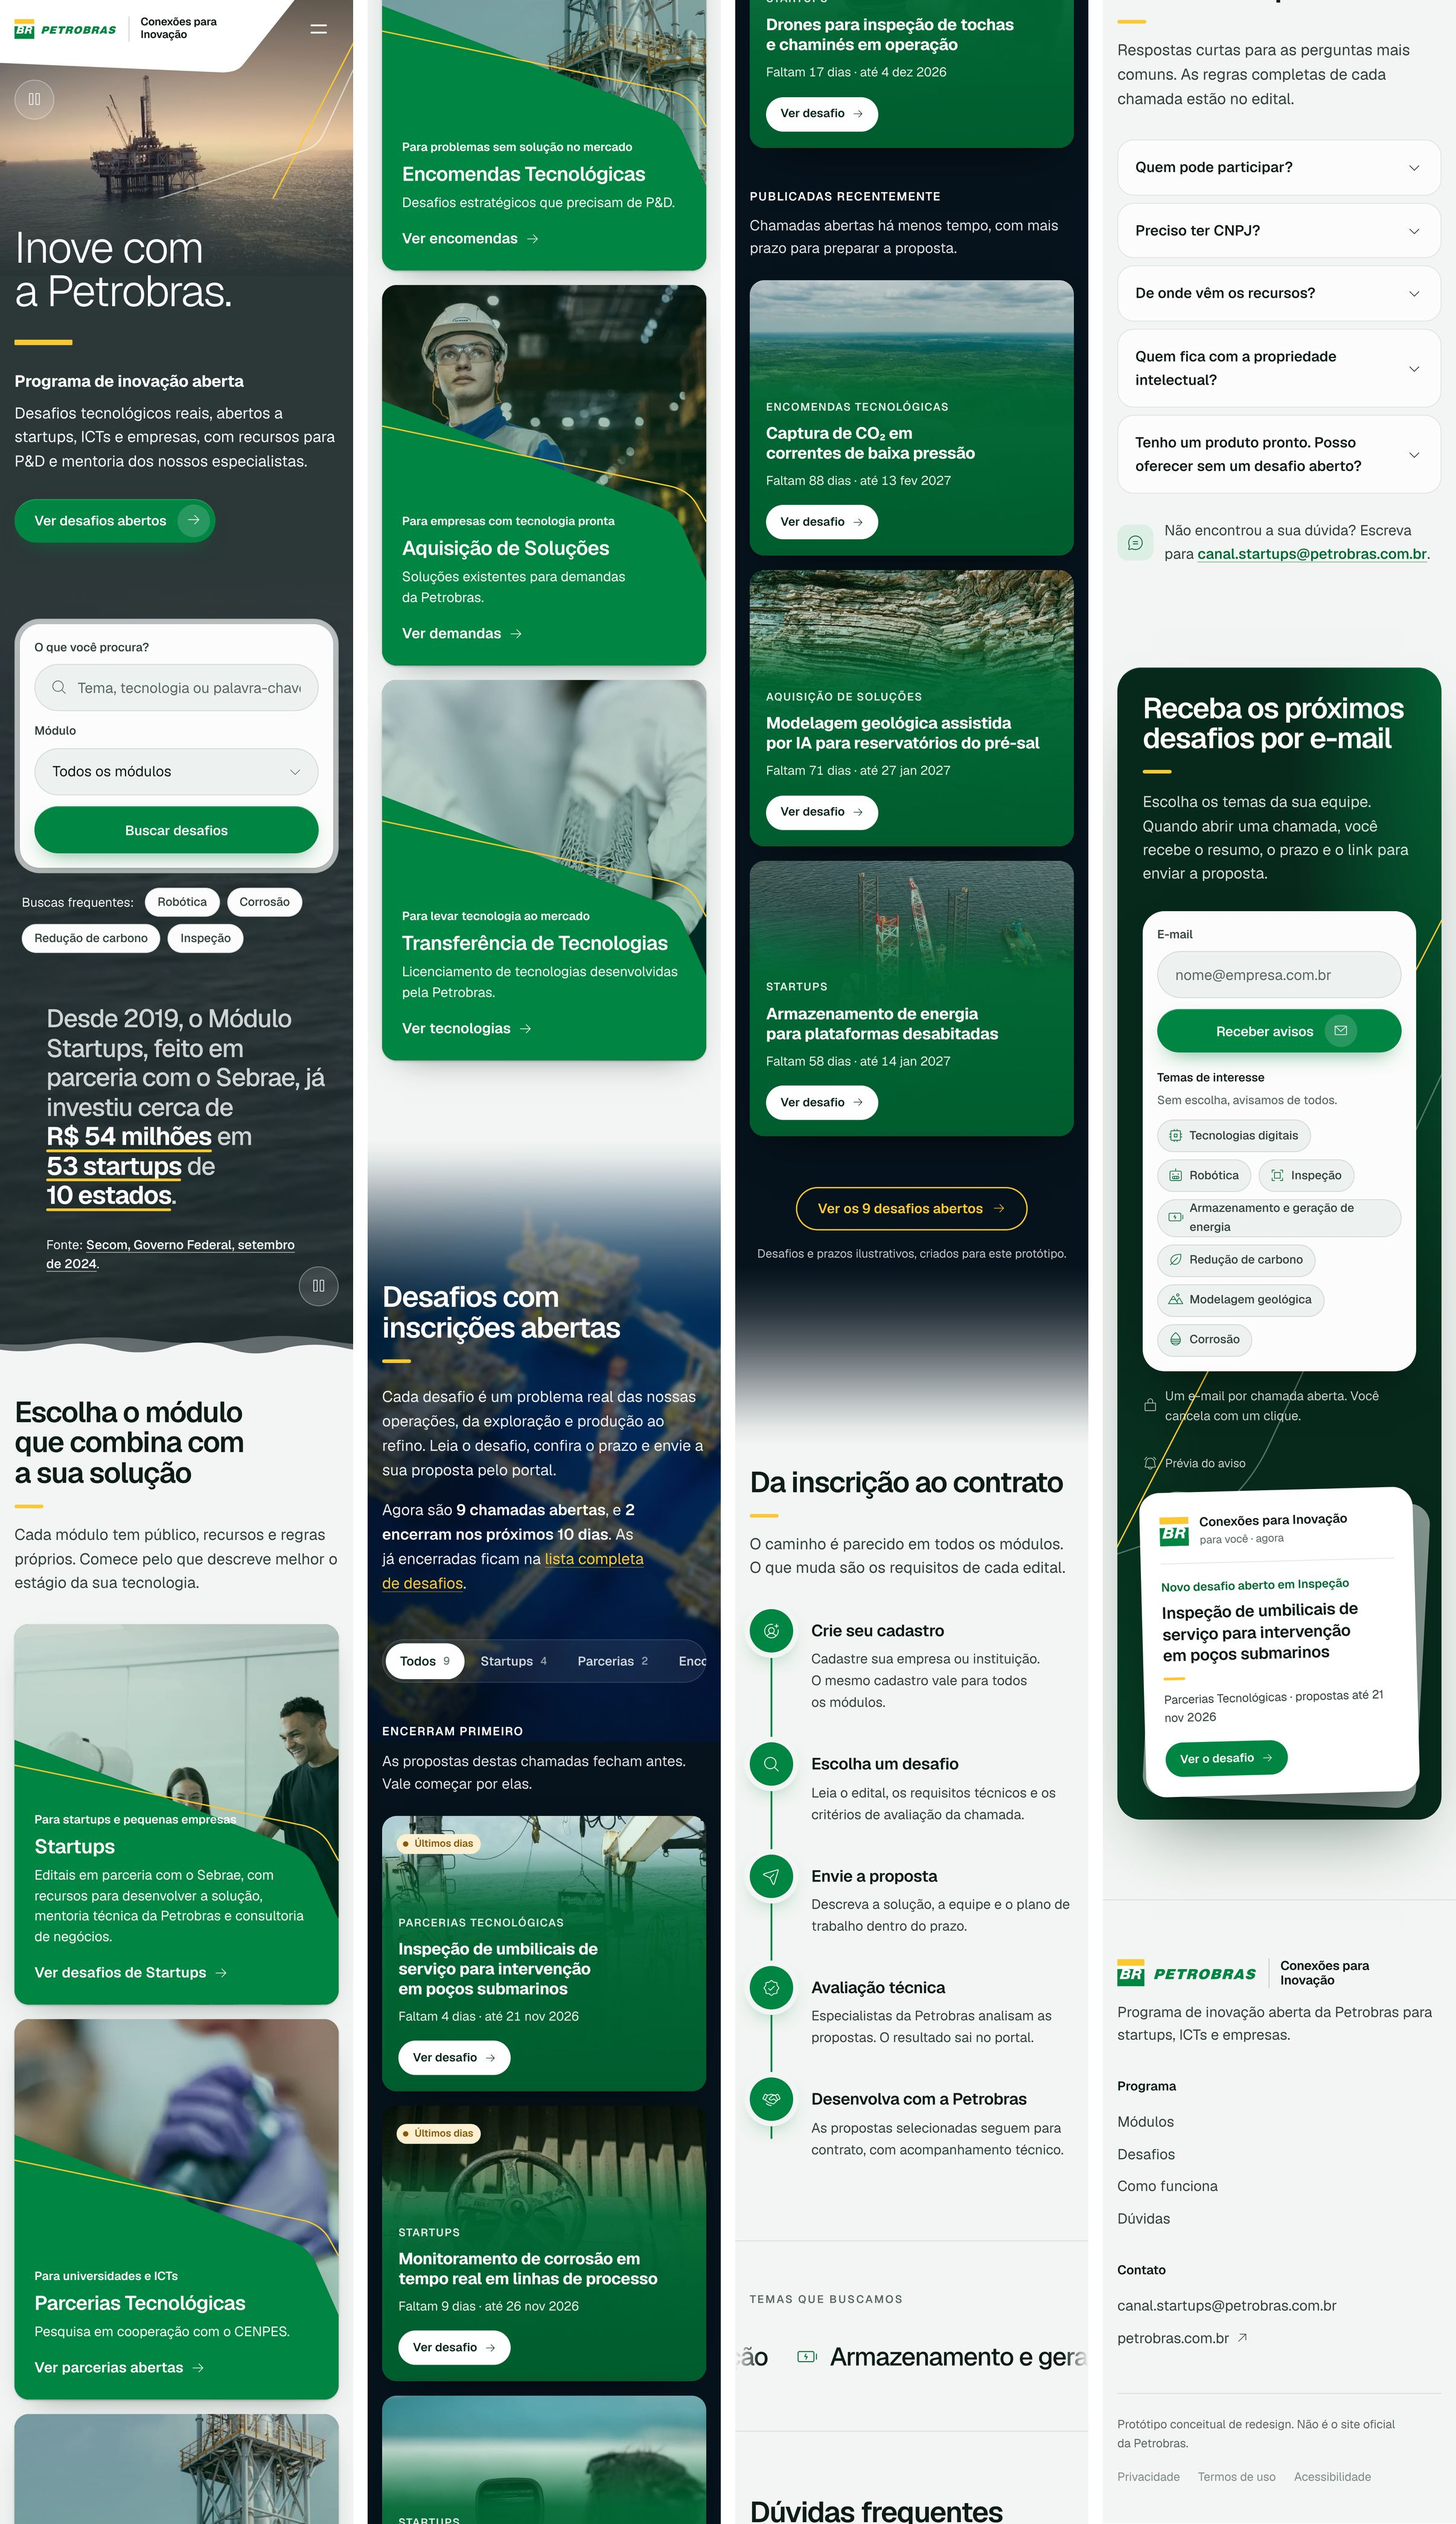
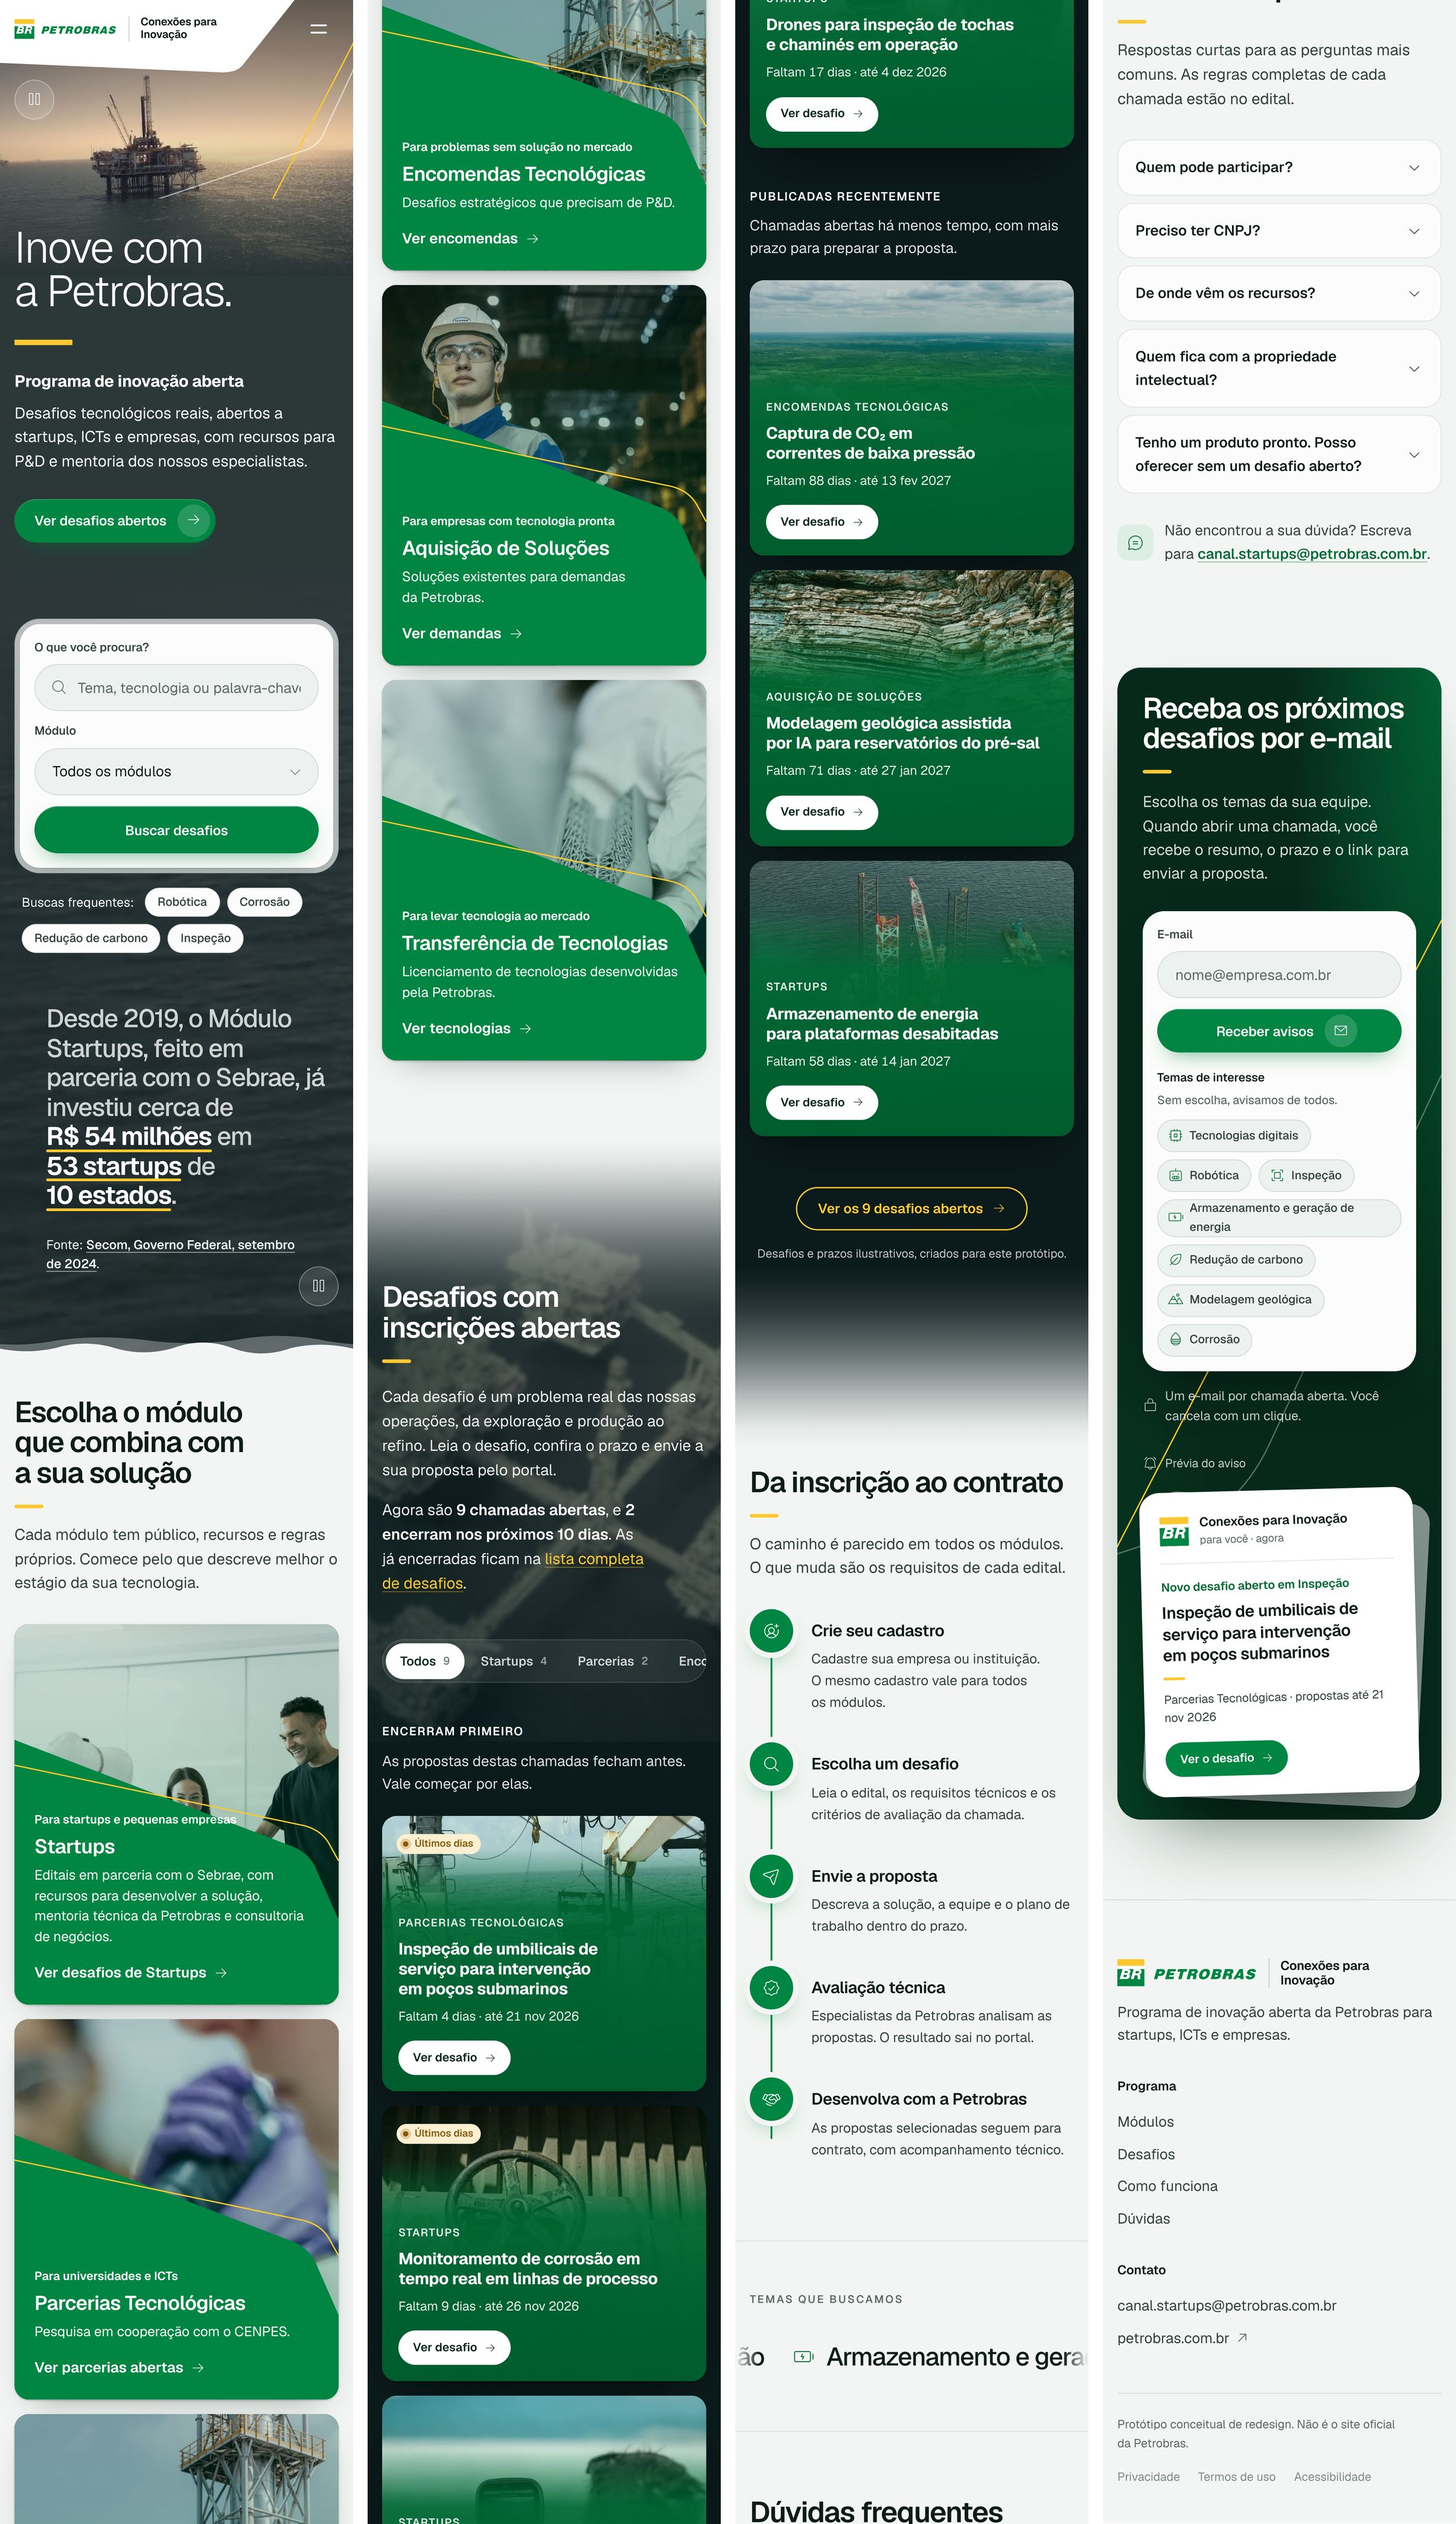
Fundo da vitrine na paleta do vídeo de abertura
- Foto aérea refeita com um mapa de gradiente tirado das cores do hero e do mar
  contínuo: mar verde-acinzentado e estruturas com a luz quente do pôr do sol
- Véu da vitrine passa a usar a mesma cor do mar contínuo, com força parecida
- Contraste dos textos sobre a foto medido de novo em 10 posições de rolagem
- Atualiza DESIGN.md, README e capturas

Claude-Session: https://claude.ai/code/session_01RAqb2iraTZncBbEkAKZSUg

Changed region(s): [[0.2488, 0.4665, 0.4975, 0.6531], [0.5908, 0.933, 0.6841, 0.9641], [0.7152, 0.933, 0.7463, 0.9641]]

diff --git a/assets/css/styles.css b/assets/css/styles.css
@@ -2310,7 +2310,7 @@ html:not(.js) .statement__text strong::after {
   position: relative;
   isolation: isolate;
   color: #ffffff;
-  background: #06131d;
+  background: #0b1a1b;
   view-timeline-name: --showcase;
   --focus: #ffffff;
 }
@@ -2328,24 +2328,26 @@ html:not(.js) .statement__text strong::after {
   height: 100lvh;
   overflow: hidden;
 }
-/* vista aérea do mar com a plataforma: levemente desfocada, para os cards ficarem em primeiro plano */
+/* vista aérea do mar com a plataforma, nas cores do hero (mapa de gradiente feito com a paleta
+   do vídeo de abertura: mar verde-acinzentado e luz quente); levemente desfocada, para os cards
+   ficarem em primeiro plano */
 .showcase__photo {
   width: 100%;
   height: 100%;
   object-fit: cover;
   object-position: 55% 50%;
   transform-origin: 50% 50%;
-  filter: blur(2px) saturate(1.08);
+  filter: blur(2px);
 }
-/* véu azul-escuro para leitura: mais forte à esquerda (onde começam os textos) e nas bordas */
+/* mesmo véu do mar contínuo (--sea-scrim), mais forte à esquerda, onde começam os textos */
 .showcase__sticky::after {
   content: "";
   position: absolute;
   inset: 0;
   background:
-    radial-gradient(120% 85% at 60% 50%, rgb(3 14 24 / 0) 30%, rgb(3 14 24 / 0.5) 100%),
-    linear-gradient(90deg, rgb(3 14 24 / 0.5) 0%, rgb(3 14 24 / 0.2) 55%, rgb(3 14 24 / 0.1) 100%),
-    linear-gradient(180deg, rgb(3 14 24 / 0.55) 0%, rgb(3 14 24 / 0.42) 45%, rgb(3 14 24 / 0.6) 100%);
+    radial-gradient(120% 85% at 60% 50%, rgb(4 24 26 / 0) 30%, rgb(4 24 26 / 0.4) 100%),
+    linear-gradient(90deg, rgb(4 24 26 / 0.4) 0%, rgb(4 24 26 / 0.16) 55%, rgb(4 24 26 / 0.08) 100%),
+    linear-gradient(180deg, rgb(4 24 26 / 0.68) 0%, rgb(4 24 26 / 0.6) 45%, rgb(4 24 26 / 0.7) 100%);
 }
 /* Entrada e saída suaves: a página clara se dissolve na foto, num degradê com curva */
 .showcase::before,

diff --git a/DESIGN.md b/DESIGN.md
@@ -120,7 +120,7 @@ Contraste medido (WCAG):
   - Header sobre o vídeo: menu acima de 7,8:1, barra de serviços acima de 13:1.
   - Mar: frase acima de 7,3:1, fonte e "Buscas frequentes" acima de 8,5:1.
   - Cards de foto dos desafios (todas as fotos, de 390 a 1440 px, com os filtros): módulo acima de 5,3:1, dias e data acima de 6,4:1, título acima de 6,9:1.
-  - Textos da vitrine sobre a foto de fundo (10 posições de rolagem, de 390 a 1440 px): abertura acima de 5,3:1, descrição dos grupos acima de 6,3:1, rótulos acima de 9:1, nota final acima de 5,4:1.
+  - Textos da vitrine sobre a foto de fundo (10 posições de rolagem, de 390 a 1440 px): abertura acima de 5,6:1, descrição dos grupos acima de 6,2:1, rótulos acima de 8:1, nota final acima de 5,2:1.
 
 ### Tipografia
 
@@ -184,7 +184,7 @@ As ondas e os vídeos só animam quando estão visíveis (`IntersectionObserver`
 - **Cards de módulo:** padrão "Acesse também" da Petrobras, em grade assimétrica, com Startups em destaque. Cada módulo tem uma foto que mostra o seu público: equipe de startup com braço robótico, laboratório (universidades e ICTs), torre de refinaria (problemas da operação), técnico em campo (soluções prontas) e peças impressas em 3D (tecnologia que sai para o mercado). Cada foto tem enquadramento próprio para o desktop e para cards estreitos (`--pos` e `--pos-sm`).
 - **Card de desafio (lista, detalhe):** moldura dupla; módulo com ícone em bloco verde claro e selo de estado com ponto; título com barra amarela; resumo em 2 linhas; tags; rodapé em faixa cinza com a contagem regressiva em Geist Mono, a data e a barra de prazo (verde, ou âmbar nos últimos dias).
 - **Desafios na home (vitrine):** inspirada nos cards de tecnologia do petrobras.com.br.
-  - Fundo: vista aérea de uma plataforma no mar azul, levemente desfocada e com véu azul-escuro. A foto fica presa à tela (sticky) enquanto o conteúdo rola por cima e para no fim da seção.
+  - Fundo: vista aérea de uma plataforma no mar, nas cores do primeiro bloco da página. Um mapa de gradiente feito com a paleta do vídeo de abertura deixa o mar verde-acinzentado e as estruturas com a luz quente do pôr do sol. A foto é levemente desfocada e leva o mesmo véu do mar contínuo. Ela fica presa à tela (sticky) enquanto o conteúdo rola por cima e para no fim da seção.
   - Entrada e saída suaves: degradês longos e com curva (cerca de 300 px no desktop) fazem a página clara se dissolver na foto e voltar ao claro no fim.
   - Título à esquerda e texto à direita, com o resumo do momento ("9 chamadas abertas, e 2 encerram nos próximos 10 dias") e o link amarelo para a lista completa.
   - Os desafios ficam em grupos com rótulo em caixa alta e uma frase: "Encerram primeiro" (os 3 prazos mais próximos) e "Publicadas recentemente" (os 3 mais novos entre os demais).

diff --git a/README.md b/README.md
@@ -78,7 +78,7 @@ As fotos dos cards de módulo são do [Pexels](https://www.pexels.com/license/) 
 | Aquisição de Soluções | [Engineer in Industrial Factory Using Tablet](https://www.pexels.com/photo/engineer-in-industrial-factory-using-tablet-32845694/) | Sergey Sergeev |
 | Transferência de Tecnologias | [Peças metálicas impressas em 3D](https://www.pexels.com/photo/engineer-holding-clean-energy-battery-3861437/) | ThisIsEngineering |
 
-O fundo da vitrine de desafios é a foto [Aerial View of Complex Platform](https://www.pexels.com/photo/aerial-view-of-complex-platform-9336590/), de Aron Razif, também do Pexels (`assets/media/vitrine-1920.webp` e `vitrine-1080.webp`).
+O fundo da vitrine de desafios é a foto [Aerial View of Complex Platform](https://www.pexels.com/photo/aerial-view-of-complex-platform-9336590/), de Aron Razif, também do Pexels, com as cores ajustadas para a paleta do vídeo de abertura (`assets/media/vitrine-1920.webp` e `vitrine-1080.webp`).
 
 Cada desafio também tem a sua foto (`assets/media/desafios/<id>.webp`), usada nos cards da home e no cabeçalho da página do desafio. Também são do Pexels:
 
